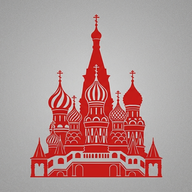
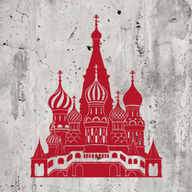
Add files via upload

diff --git a/sw.js b/sw.js
@@ -1,4 +1,4 @@
-const C='rus-v3',A=['./','index.html','data.js','lex.js','manifest.webmanifest','icon-192.png','icon-512.png','icon-180.png'];
+const C='rus-v4',A=['./','index.html','data.js','lex.js','concrete.jpg','manifest.webmanifest','icon-192.png','icon-512.png','icon-180.png'];
 self.addEventListener('install',e=>e.waitUntil(caches.open(C).then(c=>c.addAll(A)).then(()=>self.skipWaiting())));
 self.addEventListener('activate',e=>e.waitUntil(caches.keys().then(k=>Promise.all(k.filter(x=>x.startsWith('rus-')&&x!==C).map(x=>caches.delete(x)))).then(()=>clients.claim())));
 self.addEventListener('fetch',e=>{if(e.request.method!=='GET'||new URL(e.request.url).hostname.endsWith('supabase.co'))return;e.respondWith(caches.match(e.request).then(r=>{const f=fetch(e.request).then(res=>{const cp=res.clone();caches.open(C).then(c=>c.put(e.request,cp));return res}).catch(()=>r);return r||f}))});
